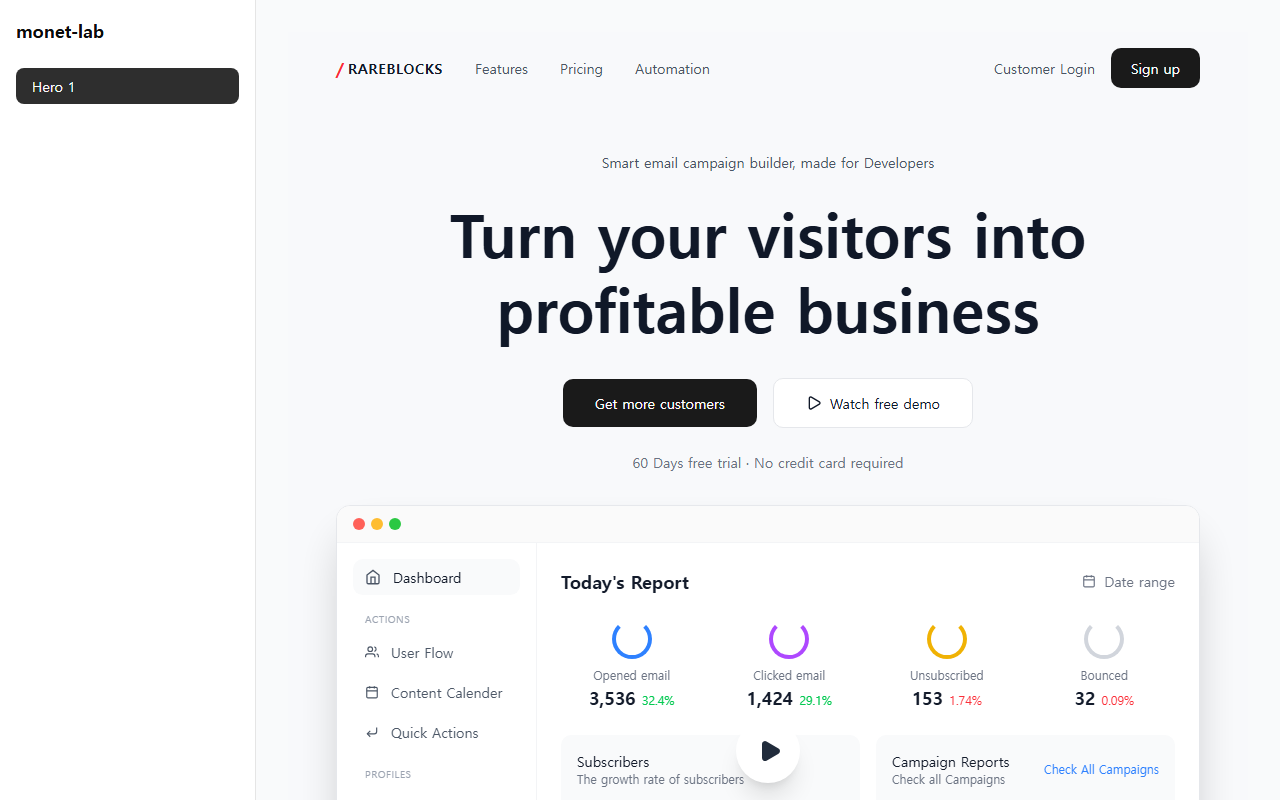
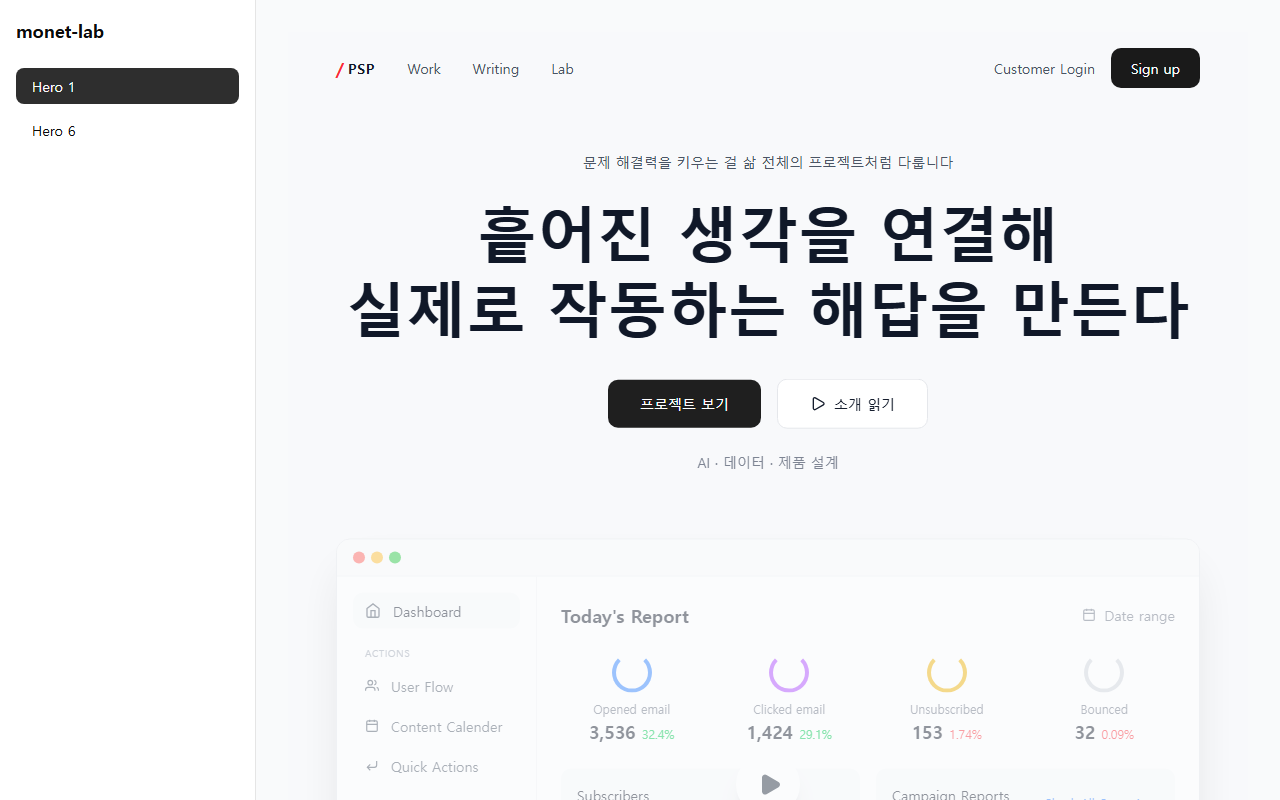
[portfolio] UI Lab hero-6 스크린샷 + lab.md 업데이트

diff --git a/src/content/lab.md b/src/content/lab.md
@@ -1,4 +1,9 @@
+## Hero 6 — 2026-02-21
+monet-registry hero-6. 중앙 집중형 레이아웃에 포트폴리오 데이터 주입. 배지·헤드라인·서브헤드라인·CTA·프로젝트 카드·stats 모두 portfolio.ts에서 공급. Framer Motion floating 카드 구조.
+
+![hero-6](./lab/hero-6.png)
+
 ## Hero 1 — 2026-02-21
-monet-registry의 첫 실험. Landingfolio 스타일 히어로 섹션으로 Framer Motion 애니메이션과 Lucide React 아이콘을 사용한다. Tailwind CSS 4 + shadcn/ui 환경에서 그대로 동작 확인.
+monet-registry 첫 실험. Landingfolio 스타일 히어로 섹션. Framer Motion + Lucide React. props 주입 구조 확인용.
 
 ![hero-1](./lab/hero-1.png)
